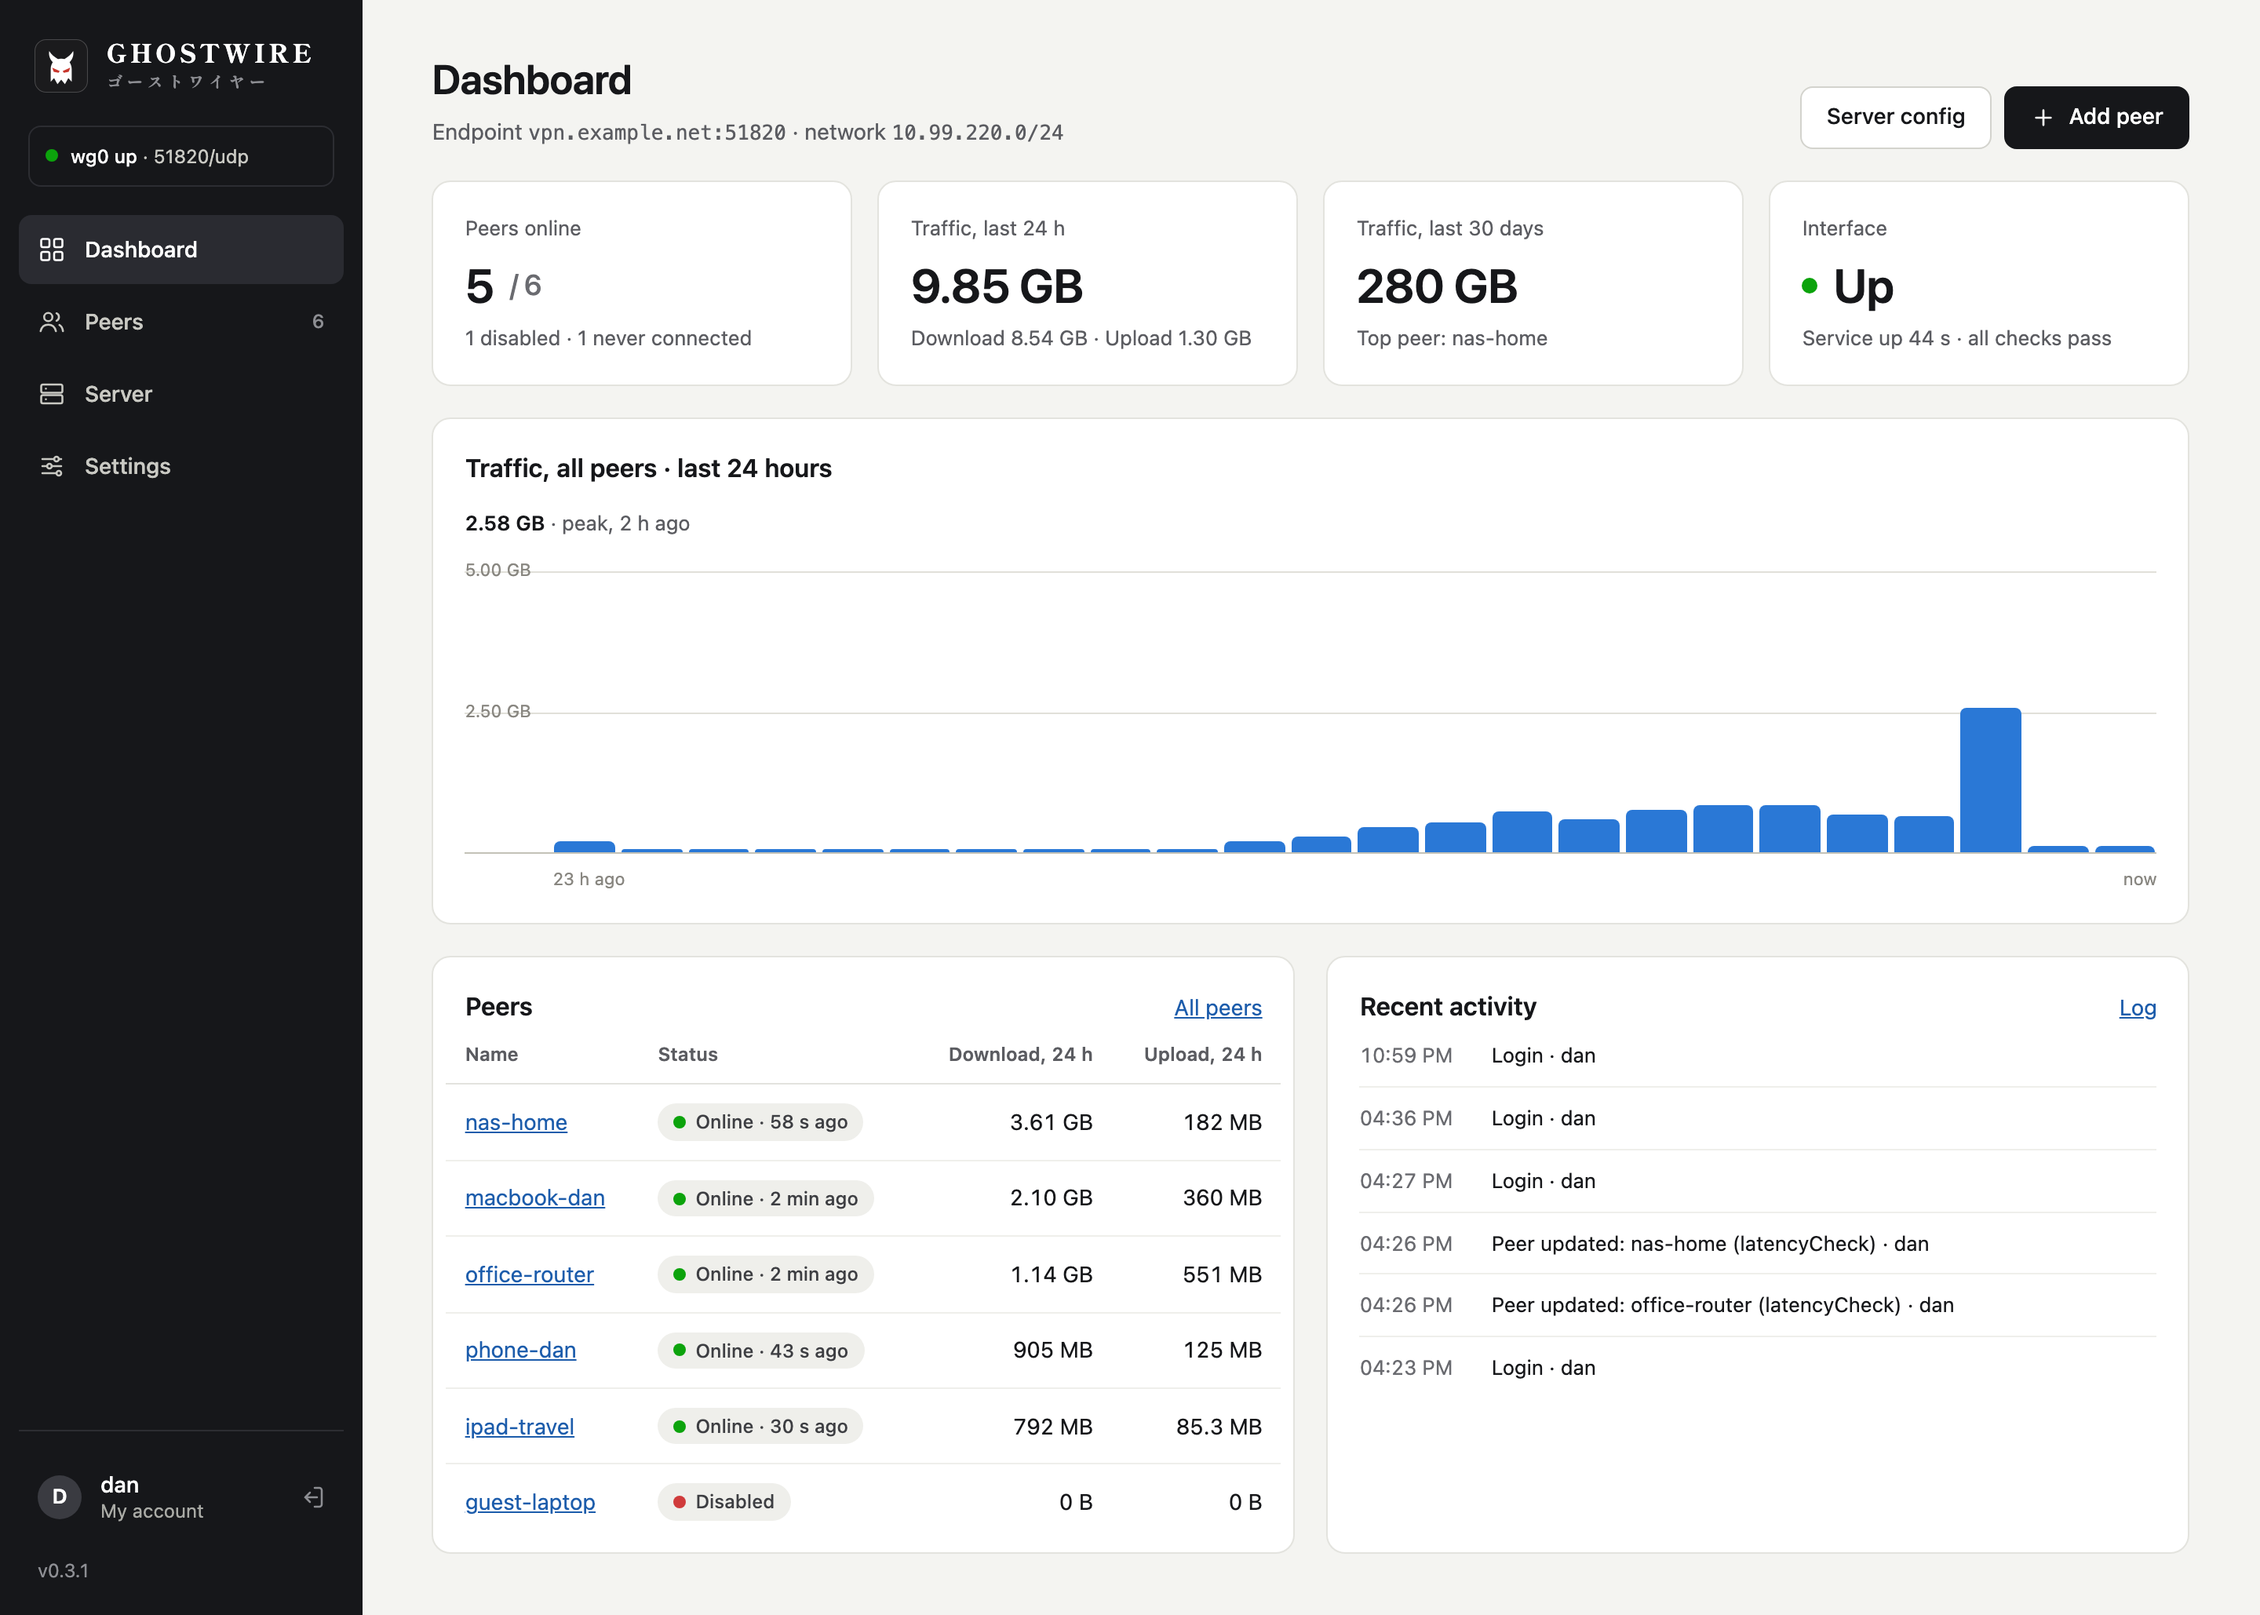
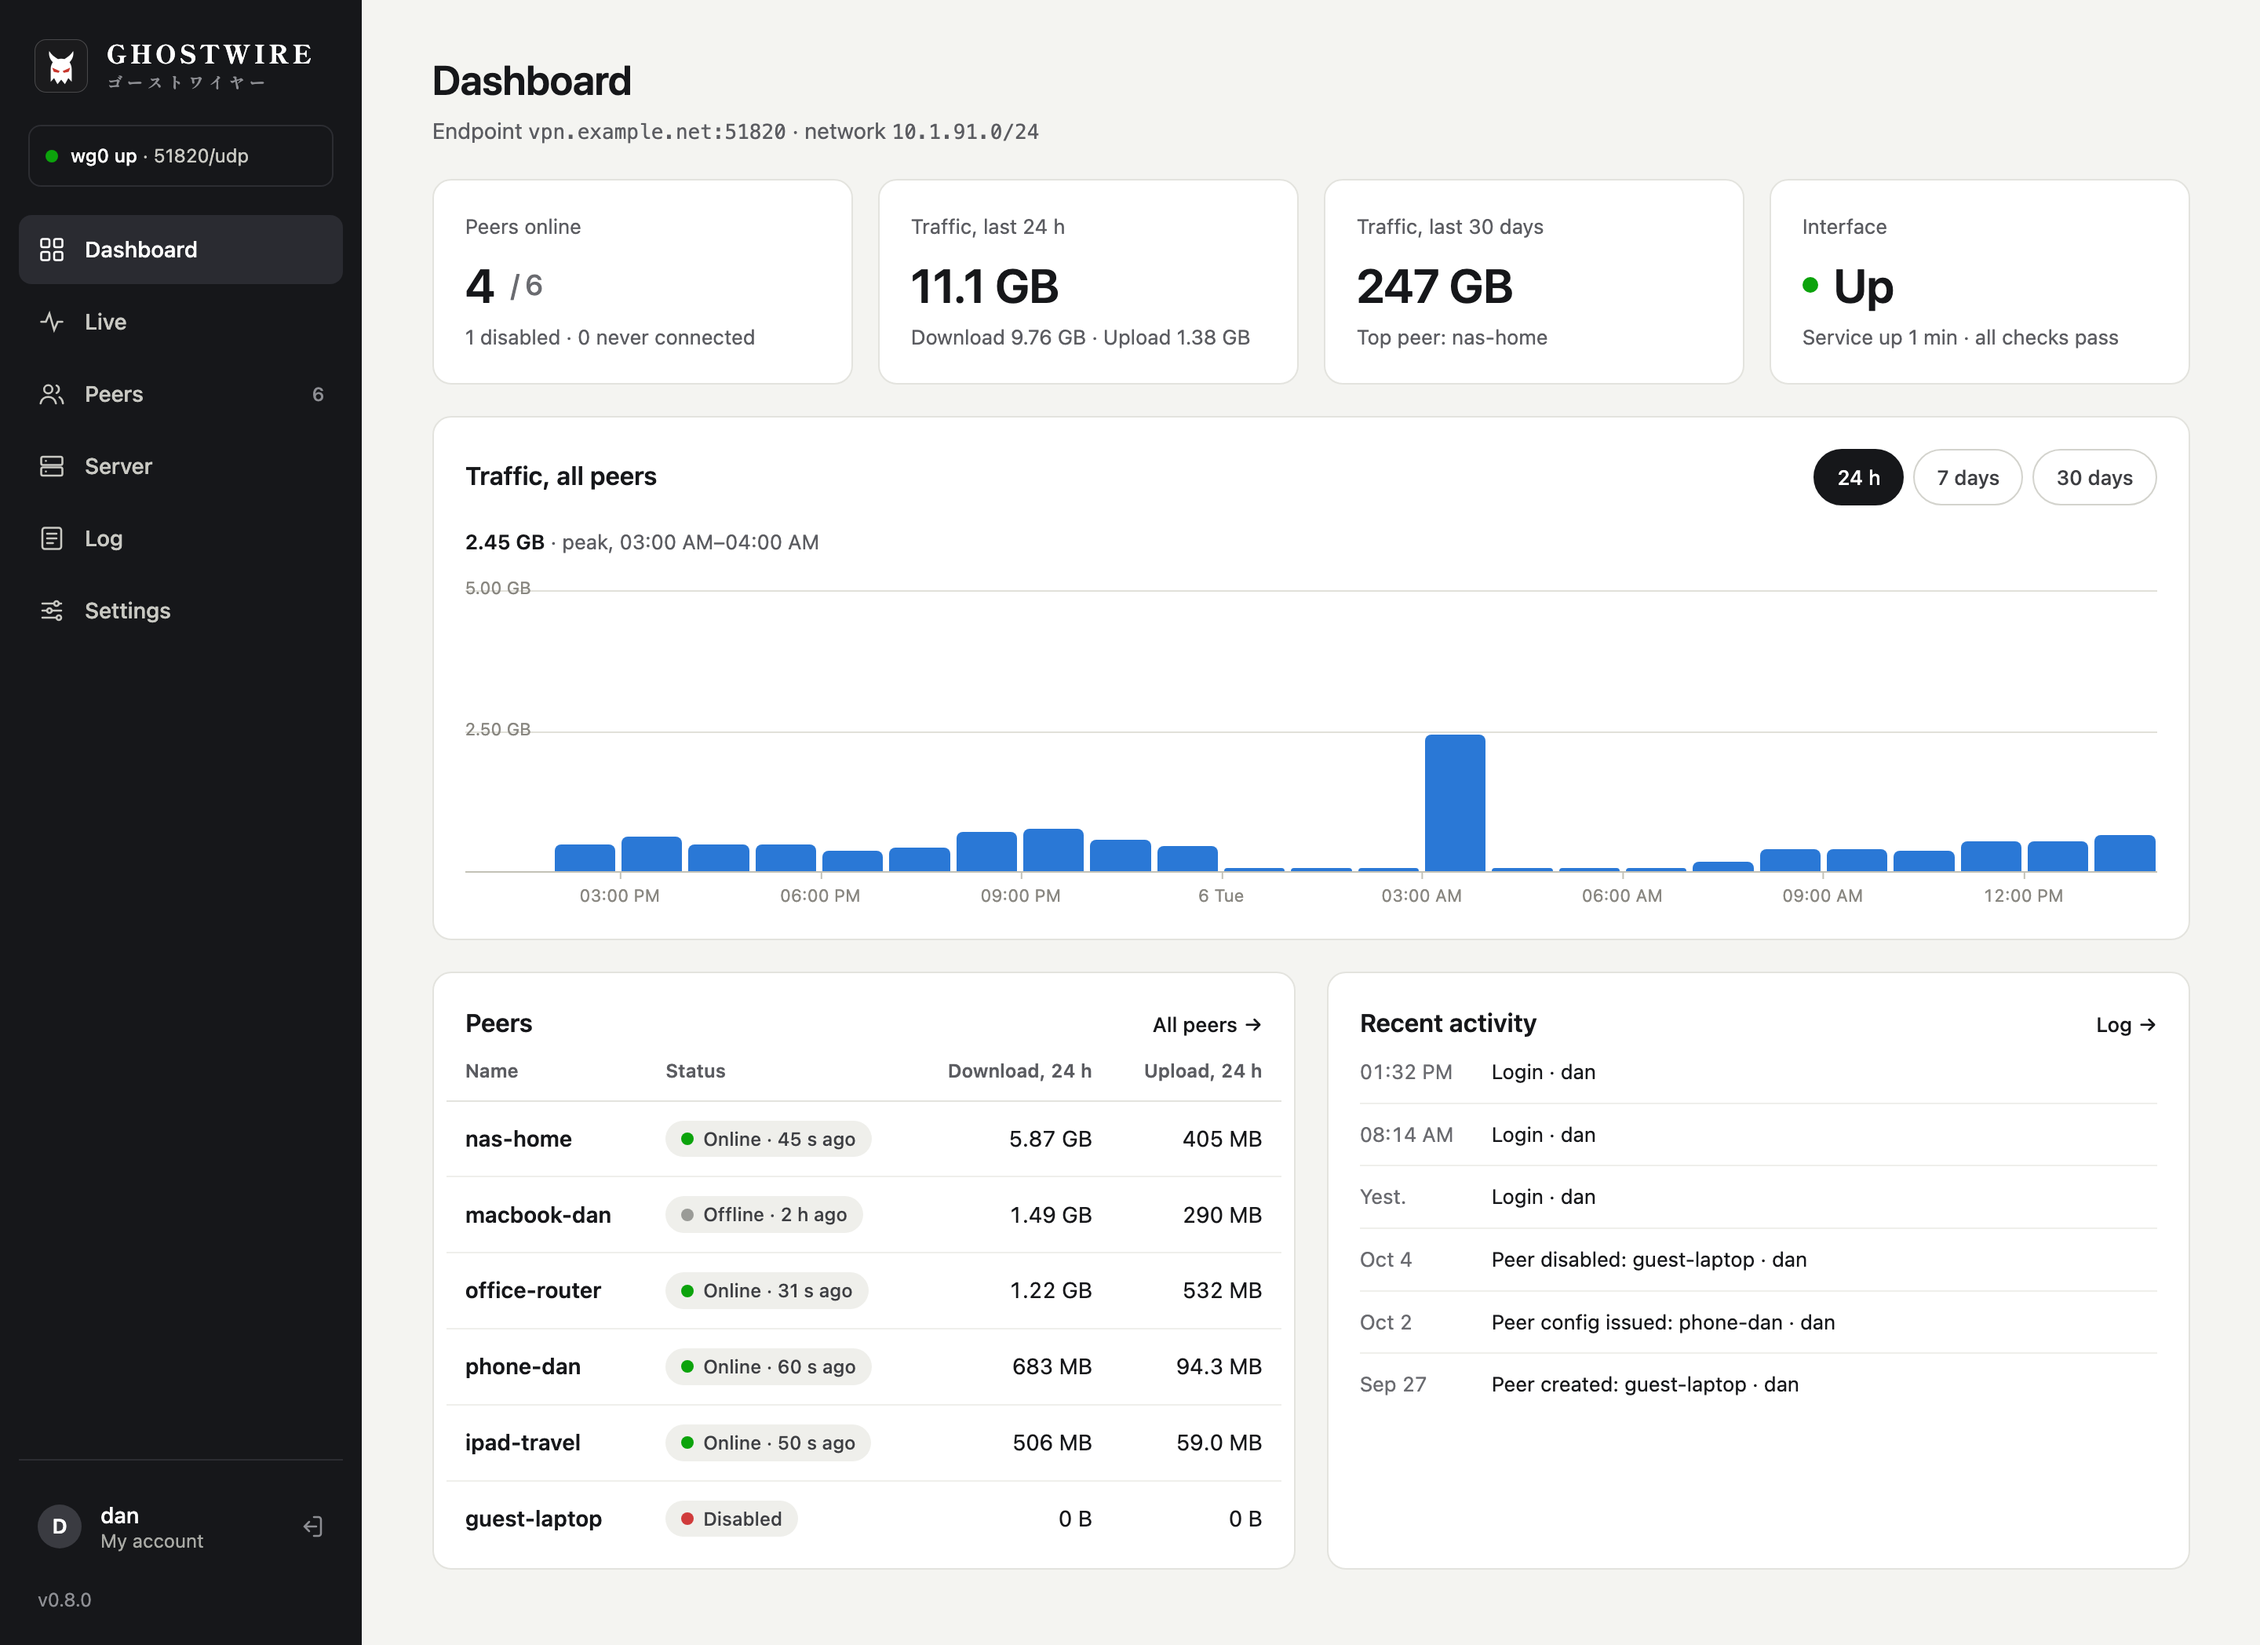
SEO: title, description, canonical, Open Graph, JSON-LD, robots.txt, sitemap; dashboard screenshot from v0.8.0

diff --git a/index.html b/index.html
@@ -4,10 +4,43 @@
 <meta charset="utf-8">
 <meta name="viewport" content="width=device-width, initial-scale=1, viewport-fit=cover">
 <meta name="referrer" content="no-referrer">
-<title>GHOSTWIRE</title>
-<meta name="description" content="A self-hosted WireGuard server manager in a single Go binary, with a web interface, a JSON API and an iPhone app.">
+<title>GHOSTWIRE · Self-hosted WireGuard server manager</title>
+<meta name="description" content="GHOSTWIRE is a self-hosted WireGuard VPN server manager in one Go binary: web interface, peer configs as QR codes, traffic history, iPhone app. Installs with one command.">
+<link rel="canonical" href="https://ghostwi.re/">
+<meta name="robots" content="index, follow">
+<meta name="theme-color" content="#16171a">
+<meta property="og:type" content="website">
+<meta property="og:site_name" content="GHOSTWIRE">
+<meta property="og:url" content="https://ghostwi.re/">
+<meta property="og:title" content="GHOSTWIRE · Self-hosted WireGuard server manager">
+<meta property="og:description" content="One Go binary with a web interface, peer configs as QR codes, traffic and connection history, and an iPhone app. Installs with one command.">
+<meta property="og:image" content="https://ghostwi.re/og.png">
+<meta property="og:image:width" content="1200">
+<meta property="og:image:height" content="630">
+<meta property="og:image:alt" content="GHOSTWIRE: self-hosted WireGuard server manager in one binary">
+<meta name="twitter:card" content="summary_large_image">
 <link rel="icon" href="favicon.svg" type="image/svg+xml">
 <link rel="apple-touch-icon" href="apple-touch-icon.png">
+<script type="application/ld+json">
+{
+  "@context": "https://schema.org",
+  "@type": "SoftwareApplication",
+  "name": "GHOSTWIRE",
+  "alternateName": "ゴーストワイヤー",
+  "description": "Self-hosted WireGuard server manager in a single Go binary, with a web interface, a JSON API and an iPhone app.",
+  "url": "https://ghostwi.re/",
+  "image": "https://ghostwi.re/og.png",
+  "screenshot": "https://ghostwi.re/dashboard.png",
+  "applicationCategory": "NetworkingApplication",
+  "operatingSystem": "Linux",
+  "license": "https://opensource.org/licenses/MIT",
+  "isAccessibleForFree": true,
+  "offers": { "@type": "Offer", "price": "0", "priceCurrency": "EUR" },
+  "codeRepository": "https://git.redetzke.aero/Redetzke/GHOSTWIRE",
+  "sameAs": ["https://github.com/danielredetzke/GHOSTWIRE"],
+  "author": { "@type": "Person", "name": "Daniel Redetzke" }
+}
+</script>
 <link rel="stylesheet" href="site.css">
 <script src="site.js" defer></script>
 </head>
@@ -35,7 +68,7 @@
 
     <div>
       <h1>Your WireGuard server, in one binary</h1>
-      <p class="sub">GHOSTWIRE sets up the server, manages peers and hands out configs as a QR code or download. It keeps traffic and connection history per peer, and has a JSON API and an iPhone app. Nothing else to install: the binary installs, updates and removes itself.</p>
+      <p class="sub">GHOSTWIRE is a self-hosted WireGuard VPN server manager. It sets up the server, manages peers and hands out configs as a QR code or download. It keeps traffic and connection history per peer, and has a JSON API and an iPhone app. Nothing else to install: the binary installs, updates and removes itself.</p>
     </div>
 
     <div class="install">
@@ -77,7 +110,7 @@
 
 <div class="wrap shot">
   <figure>
-    <img src="dashboard.png" width="2880" height="2058" alt="The GHOSTWIRE dashboard: five of six peers online, traffic of the last 24 hours as a bar chart, the peer list and recent activity">
+    <img src="dashboard.png" width="2880" height="2096" decoding="async" alt="The GHOSTWIRE dashboard: four of six peers online, traffic of the last 24 hours as a bar chart, the peer list and recent activity">
   </figure>
 </div>
 
